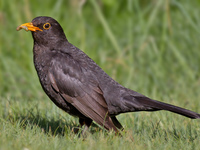
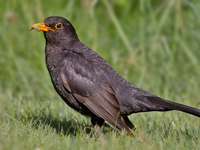
Crawler: properly focus on the birds

diff --git a/tools/PhotoMiner/checkout_birds.py b/tools/PhotoMiner/checkout_birds.py
@@ -17,15 +17,24 @@ os.mkdir(HOT_DIR_PREFIX)  # If this fails: you should always start from scratch 
 
 
 def checkout(bid, fields):
-    GRAVITY_NORTH = {
-        'buntspecht',
-        'girlitz',
-        'grauschnaepper',
-        'mehlschwalbe',
+    GRAVITY_OVERRIDE = {
+        'buntspecht': 'north',
+        'girlitz': 'north',
+        'grauschnaepper': 'north',
+        'mehlschwalbe': 'northeast',
+        'amsel': 'west',
+        'haussperling': 'west',
+        'rauchschwalbe': 'west',
+        'rotkehlchen': 'east',
+        'weisskopfseeadler': 'west',
+        'hausrotschwanz': 'east',
+        'star': 'east',
+        'stieglitz': 'west',
+        'tuerkentaube': 'east',
     }
     gravity = 'center'
-    if bid in GRAVITY_NORTH:
-        gravity = 'north'
+    if bid in GRAVITY_OVERRIDE:
+        gravity = GRAVITY_OVERRIDE[bid]
 
     pubweb_prefix = os.path.join(checkout_hot_poli.DIR_PREFIX, bid)
     hot_prefix = os.path.join(HOT_DIR_PREFIX, bid)
